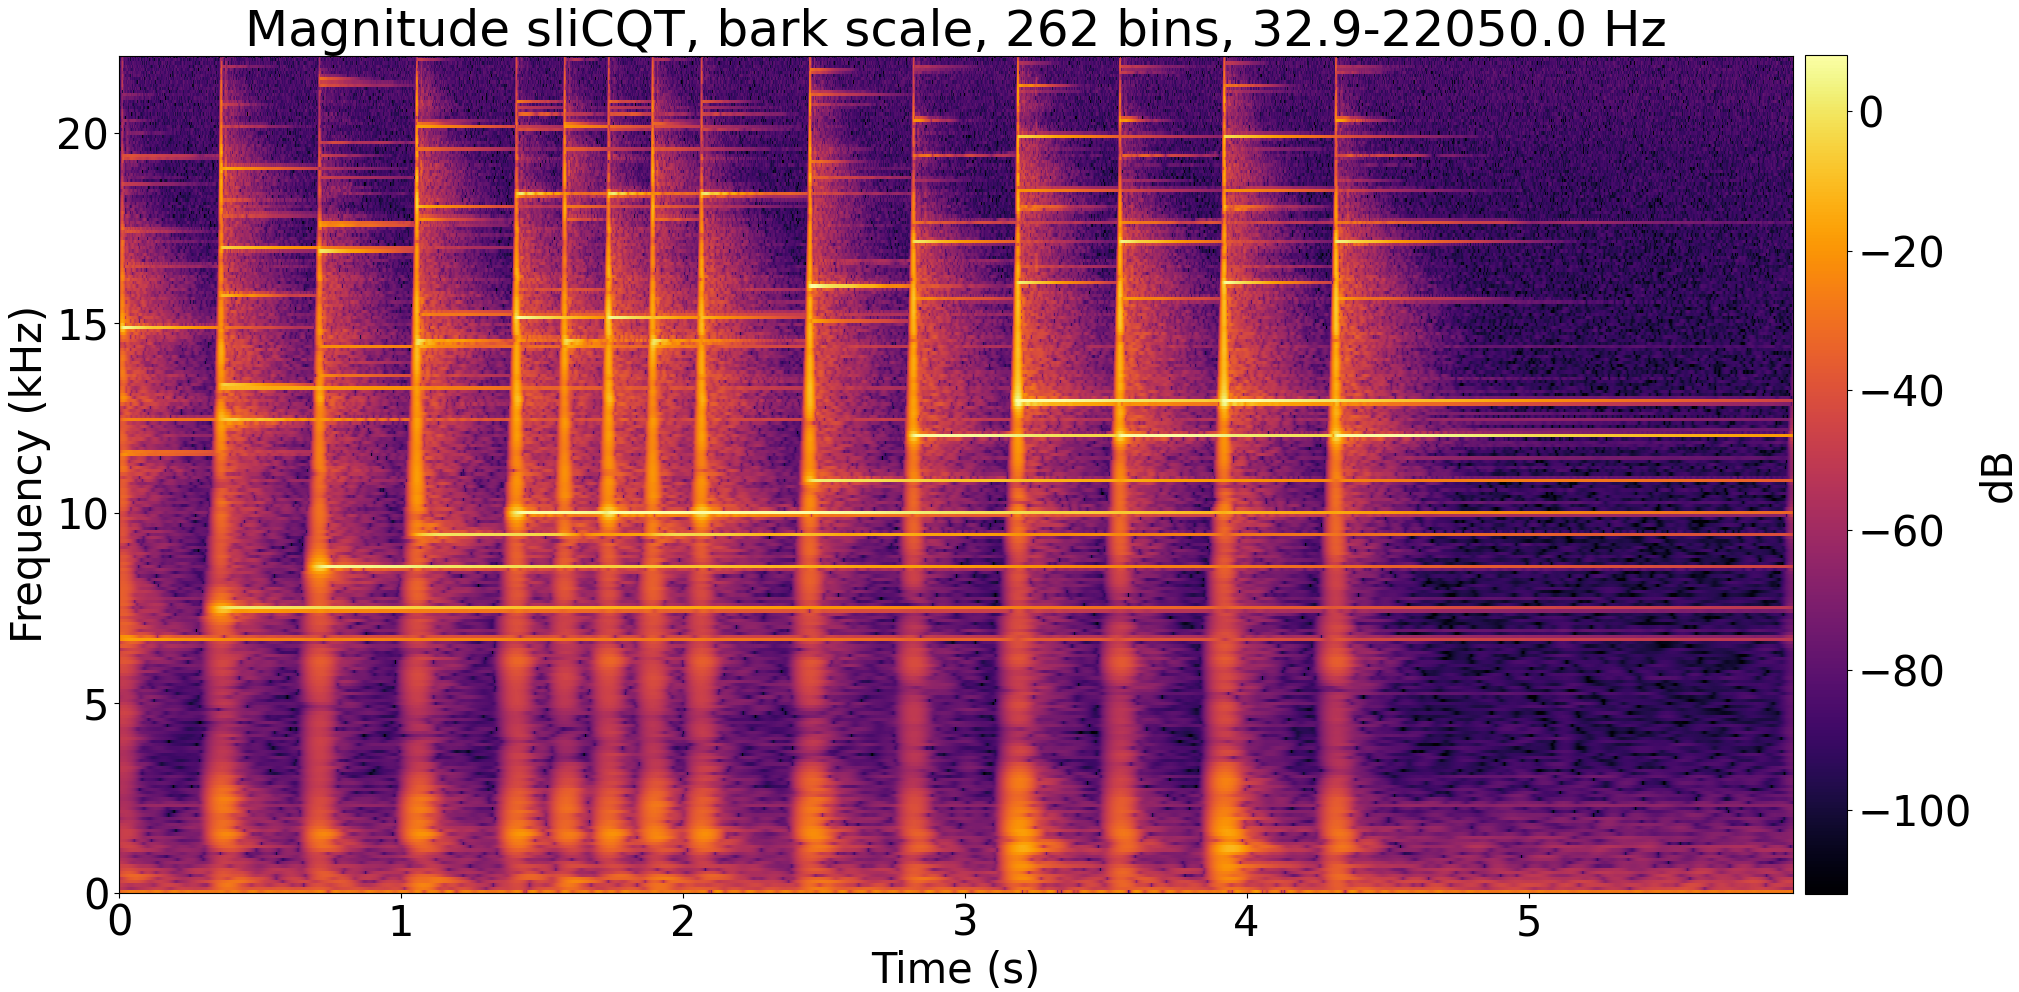
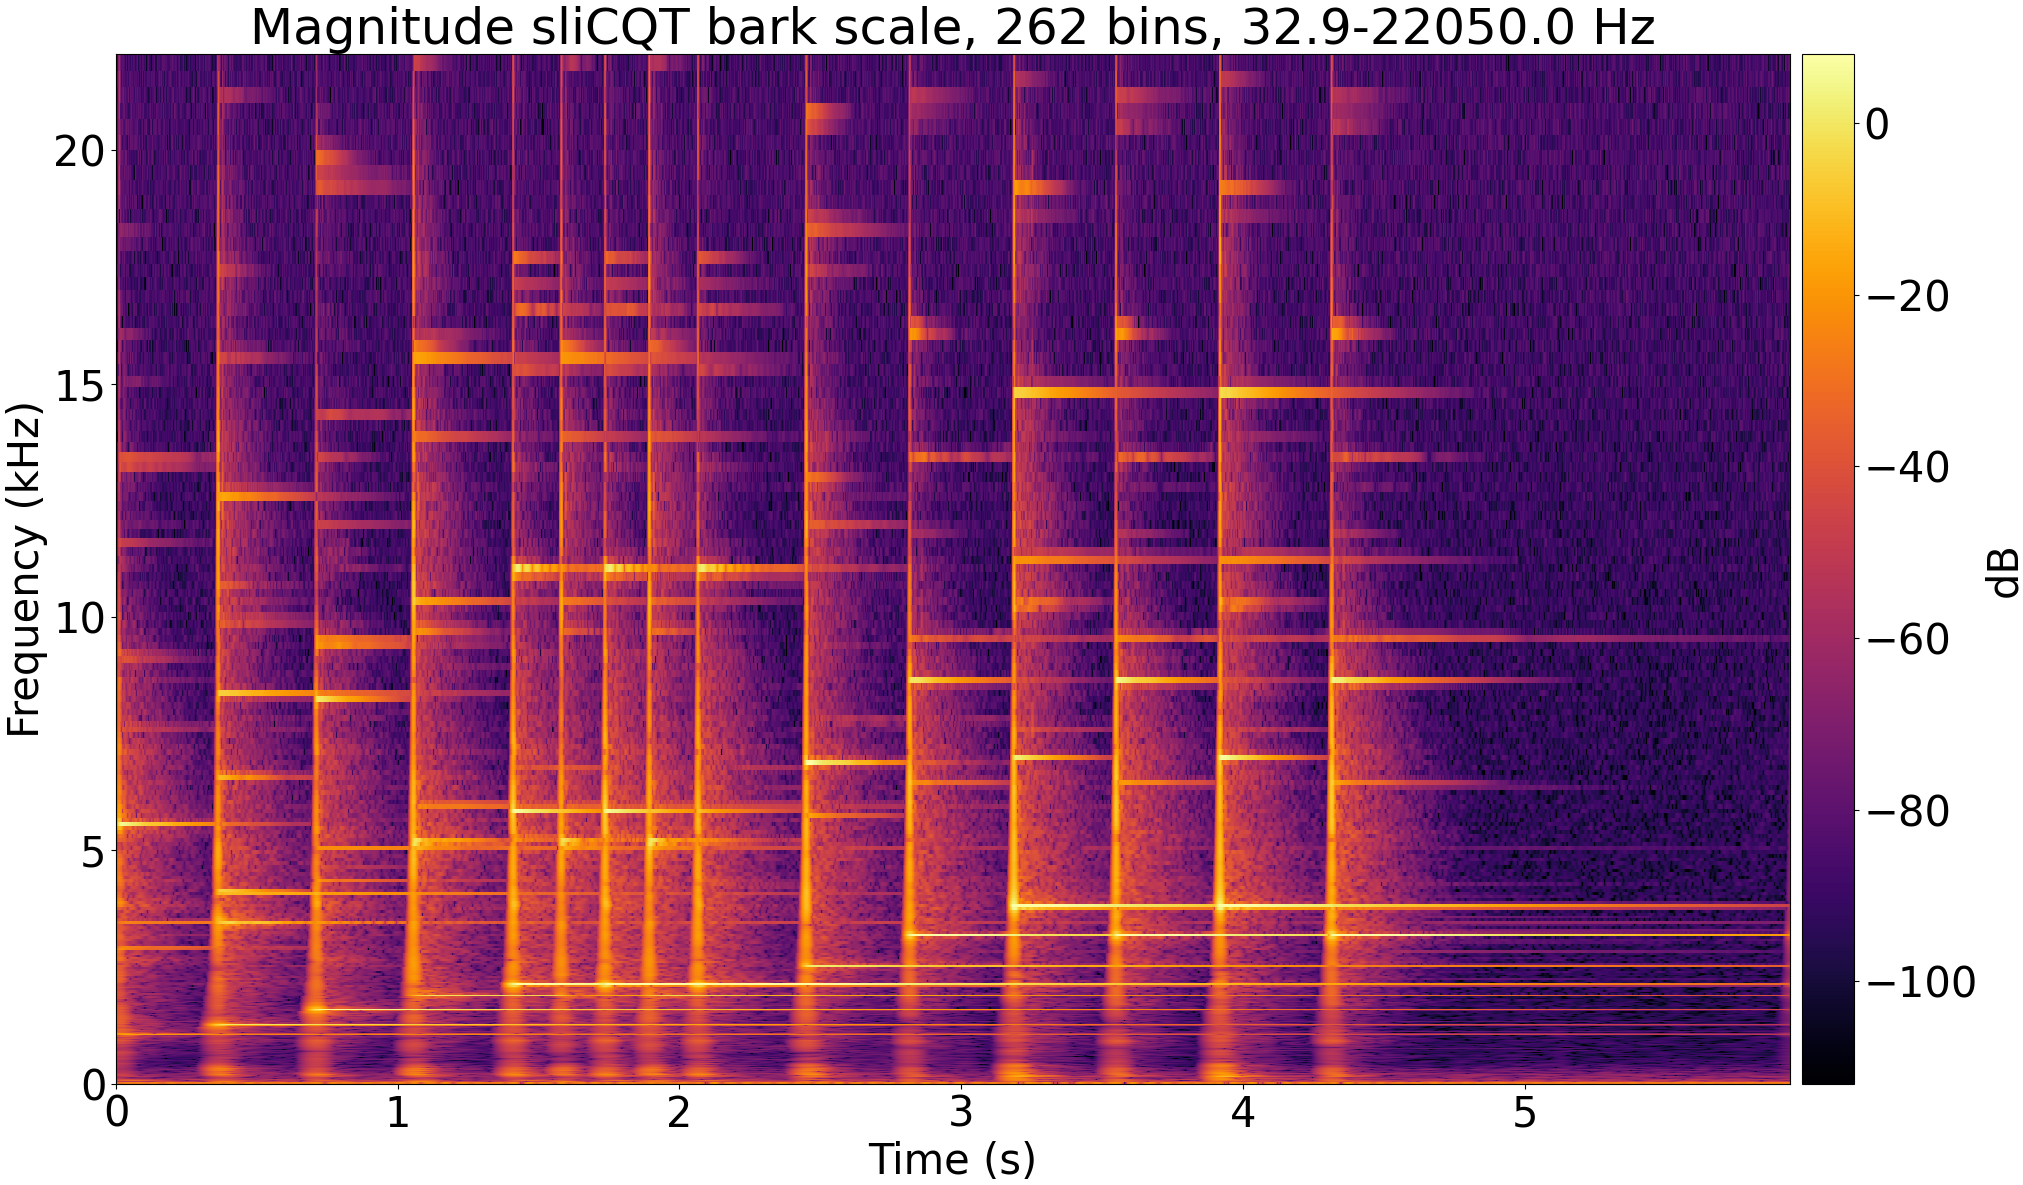
Sync latest nsgt library

diff --git a/latex/proposal.tex b/latex/proposal.tex
@@ -34,19 +34,19 @@
 
 Music source separation, or music demixing, is the task of decomposing or ``demixing'' a mixed recording of a song into its constituent sources, which are typically isolated instruments (e.g., drums, bass, vocals). Music demixing algorithms commonly operate on the time-frequency representation of the music signals, computed with the Short-Time Fourier Transform (STFT). Due to the time-frequency uncertainty principle (\cite{gabor1946}), the STFT of a signal cannot be maximally precise in both time and frequency, and the tradeoff of time-frequency resolution can significantly affect music demixing results (\cite{tftradeoff1}). In this thesis, the sliCQT (\cite{slicq}), an STFT-like transform with varying time-frequency resolution, is explored as a replacement for the STFT in a state-of-the-art deep learning model for music demixing, Open-Unmix (\cite{umx}).
 
-The STFT is computed by applying the discrete Fourier Transform on overlapping, fixed-size windows of the input signal. \textcite{doerflerphd} suggests that from both auditory and musical motivations, musical signals should be analyzed with long windows in the low frequency regions to capture detailed harmonic information, and short windows in the high frequency regions to capture transients with sharp temporal localization. The sliCQ Transform, or sliCQT, is a realtime implementation of the Nonstationary Gabor Transform (\cite{balazs}), a time-frequency transform with a perfect inverse with windows that vary with time. An important application of the sliCQT is to implement the Constant-Q Transform (CQT) for music (\cite{jbrown}).
+The STFT is computed by applying the discrete Fourier Transform on overlapping, fixed-size windows of the input signal. \textcite{doerflerphd} suggests that from both auditory and musical motivations, musical signals should be analyzed with long windows in the low frequency regions to capture detailed harmonic information, and short windows in the high frequency regions to capture transients with sharp temporal localization. The sliCQ Transform, or sliCQT, is a realtime implementation of the Nonstationary Gabor Transform (\cite{balazs}), a time-frequency transform with a perfect inverse with windows that can be varied with time. An important application of the sliCQT is to implement the Constant-Q Transform (CQT) for music (\cite{jbrown}).
 
 Machine learning models for music source separation have achieved recent success (\cite{sisec2018}), and the STFT is used by several of the top performers. \textcite{umx}'s Open-Unmix was released as a state-of-the-art baseline and reference implementation for music demixing based on the STFT and published as open-source software.\footnote{\url{https://github.com/sigsep/open-unmix-pytorch}} In this thesis, Open-Unmix will be adapted to use the sliCQT in place of the STFT, and the proposed model should demonstrate a viable starting point for music demixing with the sliCQT.
 
 \section{Previous Work}
 
-Computational source separation has a long history (\cite{musicsepgood}), originating from the task of separating clean speech from background noise. Speech algorithms could not be generalized easily to music, and techniques more specific to music source separation were developed as a result (\cite{musicseptechniques1}). Accordingly, musical source models arose which try to exploit the characteristics of the sources in the STFT domain, such as Kernel Additive Modeling or Nonnegative Matrix Factorization (\cite{musicsepgood}). More recently, data-driven models based on machine learning surpassed previous approaches (\cite{sisec2018}). Open-Unmix was created by \textcite{umx} as an open-source, reference implementation of a state-of-the-art deep neural network for music demixing that uses the STFT.
+Computational source separation has a long history (\cite{musicsepgood}), originating from the task of separating clean speech from background noise. Speech algorithms could not be generalized easily to music, and techniques more specific to music source separation were developed as a result (\cite{musicseptechniques1}). Accordingly, musical source models arose which try to exploit the characteristics of the sources in the STFT domain, such as Kernel Additive Modeling or Nonnegative Matrix Factorization (\cite{musicsepgood}). More recently, data-driven models based on machine learning surpassed previous approaches (\cite{sisec2018}). Open-Unmix was created by \textcite{umx} as an open-source, reference implementation of a state-of-the-art deep neural network for music demixing with the STFT.
 
 Manipulating time-frequency resolution is one possible strategy for improving music demixing with the STFT. \textcite{driedger} used multiple STFTs with different window sizes, \textcite{fitzgerald2} replaced the STFT with the CQT, and \textcite{wavelets} used a custom wavelet transform.
 
 \section{Proposed Research / Methodology}
 
-The adaptation of Open-Unmix to use the sliCQT depends on two preliminary tasks. First, the reference Python implementation of the sliCQT\footnote{\url{https://github.com/grrrr/nsgt}} needs to be modified to use a GPU-capable deep learning framework. Next, sliCQT parameters must be chosen that can surpass the STFT in music source separation. Finally, Open-Unmix will be adapted to replace the sliCQT with the STFT, and the music demixing results will be compared with the original pre-trained model according to the SiSec 2018 music demixing evaluation methodologies (\cite{sisec2018}).
+The adaptation of Open-Unmix to use the sliCQT depends on several preliminary tasks. First, the reference Python implementation of the sliCQT\footnote{\url{https://github.com/grrrr/nsgt}} needs to be modified to use a GPU-capable deep learning framework. Next, sliCQT parameters must be chosen that can surpass the STFT in music source separation. Finally, Open-Unmix will be adapted to replace the sliCQT with the STFT, and the music demixing results will be compared with the original pre-trained model according to the SiSec 2018 music demixing evaluation methodologies (\cite{sisec2018}).
 
 \section{Contributions / Summary}
 

diff --git a/nsgt_spec_plotter/nsgt/examples/spectrogram.py b/nsgt_spec_plotter/nsgt/examples/spectrogram.py
@@ -12,13 +12,14 @@ http://grrrr.org/nsgt
 import os
 from warnings import warn
 import torch
-import matplotlib.pyplot as plt
+import numpy
+from nsgt.plot import spectrogram
 
 from nsgt import NSGT, NSGT_sliced, LogScale, LinScale, MelScale, OctScale, VQLogScale, BarkScale, SndReader
 from nsgt.fscale import Pow2Scale
-from nsgt.slicq import overlap_add_slicq
 
 from argparse import ArgumentParser
+import matplotlib.pyplot as plt
 
 
 parser = ArgumentParser()
@@ -113,51 +114,24 @@ else:
 # add a batch
 c = torch.unsqueeze(c, dim=0)
 
-transform_name = 'sliCQT'
+transform_name = 'sliCQT' if not args.nonsliced else 'NSGT'
+
+if args.fmin > 0.0:
+    freqs = numpy.r_[[0.], freqs]
 
 if args.plot:
-    # dB
-    if args.nonsliced:
-        mls = 20.*torch.log10(torch.abs(c))
-        transform_name = 'NSGT'
-    else:
-        print(f'c shape: {c.shape}')
-        chop = c.shape[-1]
-        print(f'chop: {chop}')
-        mls = 20.*torch.log10(torch.abs(overlap_add_slicq(c, flatten=args.flatten)))
+    slicq_params = '{0} scale, {1} bins, {2:.1f}-{3:.1f} Hz'.format(args.scale, args.bins, args.fmin, args.fmax)
 
-        print(f'pre-remove slice portions from the sides, mls: {mls.shape}')
-        mls = mls[:, :, :, int(chop/2):]
-        mls = mls[:, :, :, :-chop]
-        print(f'remove slice portions from the sides, mls: {mls.shape}')
-
-    plt.rcParams.update({'font.size': args.fontsize})
-    fig, axs = plt.subplots(1)
-
-    print(f"Plotting t*f space")
-
-    # remove batch
-    mls = torch.squeeze(mls, dim=0)
-    # mix down multichannel
-    mls = torch.mean(mls, dim=0)
-
-    mls = mls.T
-
-    fs_coef = fs*slicq.coef_factor # frame rate of coefficients
-    #mls_dur = len(mls)/fs_coef # final duration of MLS
-    mls_dur = dur if not args.flatten else 2*dur
-
-    mls_max = torch.quantile(mls, 0.999)
-    im = axs.imshow(mls.T, interpolation='nearest', origin='lower', vmin=mls_max-120., vmax=mls_max, extent=(0,mls_dur,0,fs/2000), cmap=args.cmap, aspect=1000*mls_dur/fs)
-    axs.set_title('Magnitude {4}, {0} scale, {1} bins, {2:.1f}-{3:.1f} Hz'.format(args.scale, args.bins, args.fmin, args.fmax, transform_name))
-    axs.set_xlabel('Time (s)')
-    axs.set_ylabel('Frequency (kHz)')
-    axs.yaxis.get_major_locator().set_params(integer=True)
-
-    fig.colorbar(im, ax=axs, shrink=0.815, pad=0.006, label='dB')
-
-    sig = torch.mean(signal, dim=0)
-    print(f'sig: {sig.shape} {fs}')
-
-    plt.subplots_adjust(wspace=0.001,hspace=0.001)
-    plt.show()
+    spectrogram(
+        c,
+        fs,
+        slicq.coef_factor,
+        transform_name,
+        freqs,
+        signal.shape[1],
+        sliced=not args.nonsliced,
+        flatten=args.flatten,
+        fontsize=args.fontsize,
+        cmap=args.cmap,
+        slicq_name=slicq_params
+    )

diff --git a/nsgt_spec_plotter/nsgt/nsgt/plot.py b/nsgt_spec_plotter/nsgt/nsgt/plot.py
@@ -1,0 +1,57 @@
+import matplotlib.pyplot as plt
+import torch
+import numpy
+from nsgt.slicq import overlap_add_slicq
+
+
+def spectrogram(c, fs, coef_factor, transform_name, freqs, frames, sliced=True, flatten=False, fontsize=14, cmap='inferno', slicq_name=''):
+    # dB
+    if not sliced:
+        mls = 20.*torch.log10(torch.abs(c))
+        transform_name = 'NSGT'
+    else:
+        chop = c.shape[-1]
+        mls = 20.*torch.log10(torch.abs(overlap_add_slicq(c, flatten=flatten)))
+        mls = mls[:, :, :, int(chop/2):]
+        mls = mls[:, :, :, :-int(chop/2)]
+
+    plt.rcParams.update({'font.size': fontsize})
+    fig, axs = plt.subplots(1)
+
+    print(f"Plotting t*f space")
+
+    # remove batch
+    mls = torch.squeeze(mls, dim=0)
+    # mix down multichannel
+    mls = torch.mean(mls, dim=0)
+
+    mls = mls.T
+
+    fs_coef = fs*coef_factor # frame rate of coefficients
+
+    ncoefs = int(coef_factor*frames)
+    mls = mls[:ncoefs, :]
+
+    mls_dur = len(mls)/fs_coef # final duration of MLS
+
+    nb_bins = len(freqs)
+
+    mls_max = torch.quantile(mls, 0.999)
+    print(f'mls_dur: {mls_dur}')
+    im = axs.pcolormesh(numpy.linspace(0.0, mls_dur, num=ncoefs), freqs/1000., mls.T, vmin=mls_max-120., vmax=mls_max, cmap=cmap)
+
+    title = f'Magnitude {transform_name}'
+
+    if slicq_name != '':
+        title += f' {slicq_name}'
+
+    axs.set_title(title)
+
+    axs.set_xlabel('Time (s)')
+    axs.set_ylabel('Frequency (kHz)')
+    axs.yaxis.get_major_locator().set_params(integer=True)
+
+    fig.colorbar(im, ax=axs, shrink=1.0, pad=0.006, label='dB')
+
+    plt.subplots_adjust(wspace=0.001,hspace=0.001)
+    plt.show()

diff --git a/nsgt_spec_plotter/nsgt/nsgt/cq.py b/nsgt_spec_plotter/nsgt/nsgt/cq.py
@@ -87,7 +87,7 @@ class NSGT:
         
     @property
     def coef_factor(self):
-        return float(self.ncoefs)/self.sl_len
+        return float(self.ncoefs)/self.Ls
     
     @property
     def slice_coefs(self):
